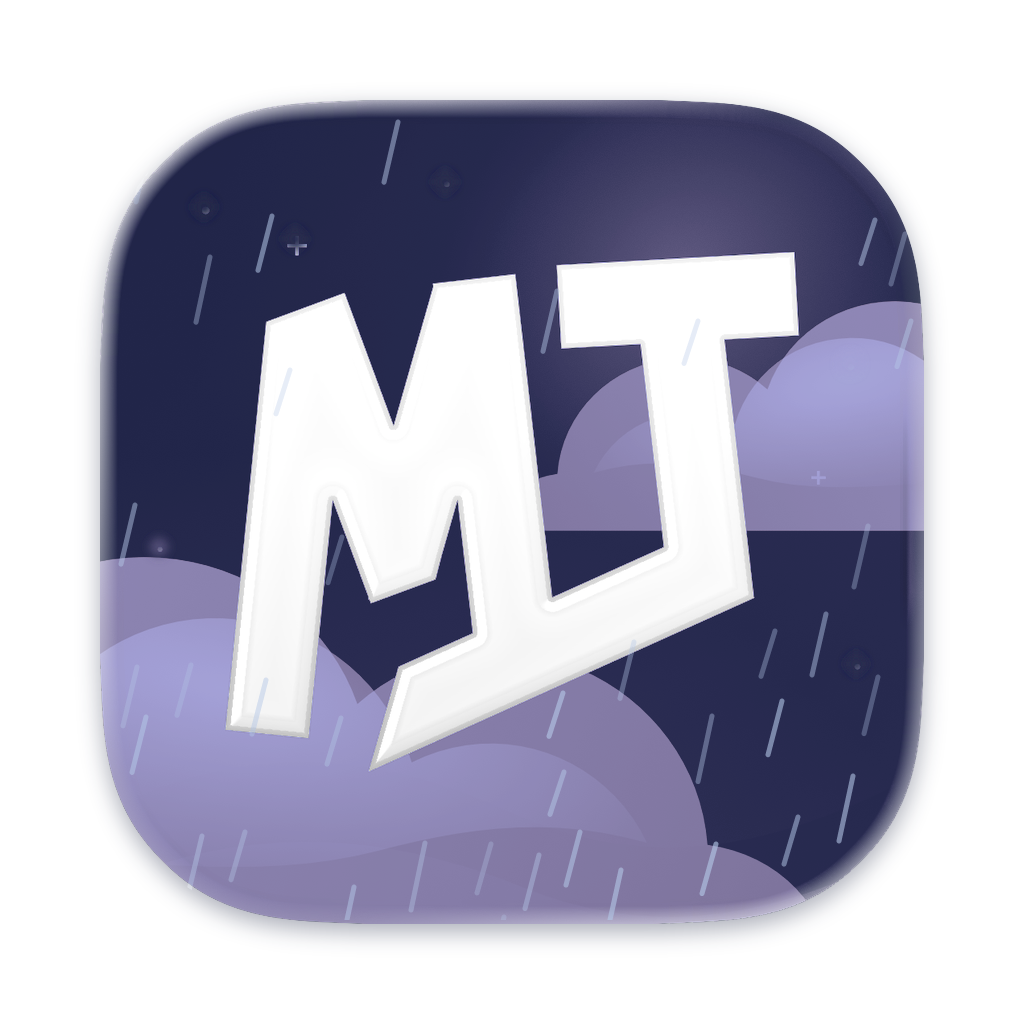
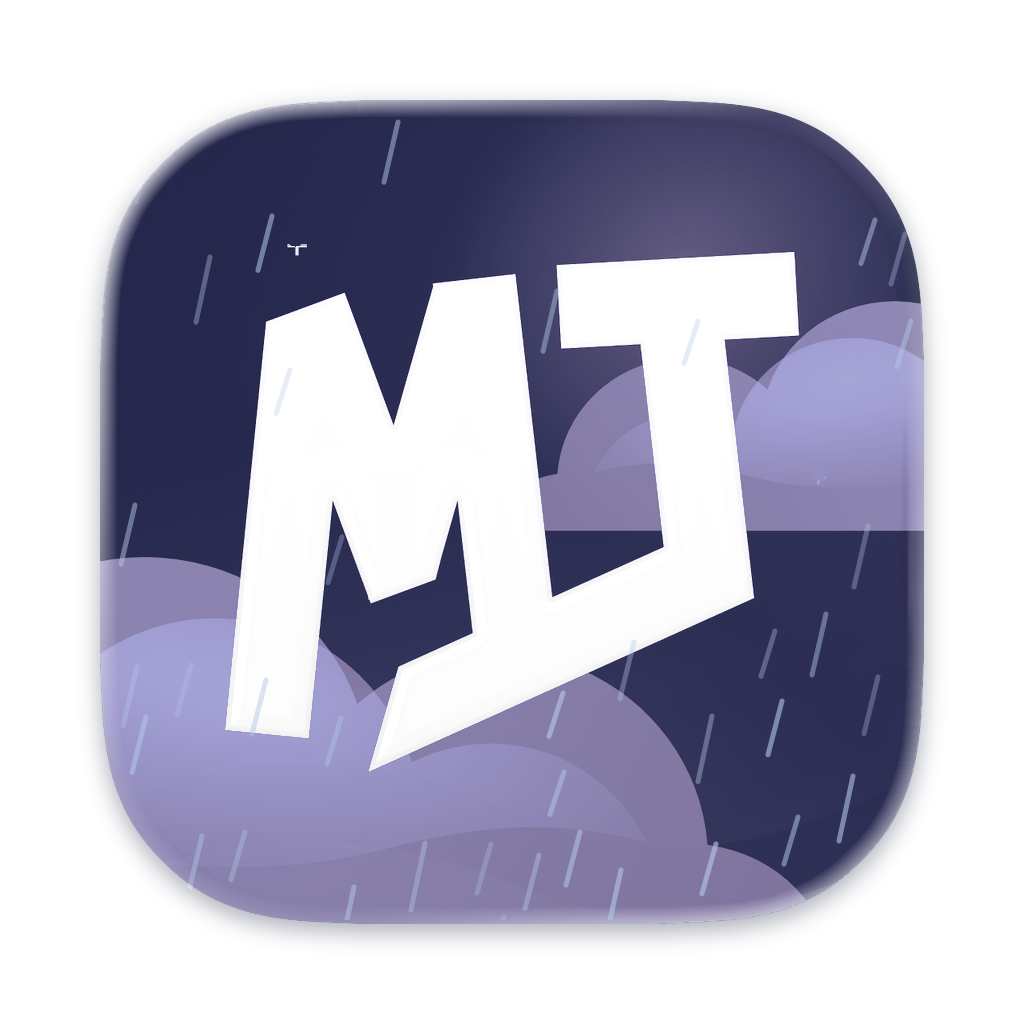
fix(web): give day's clouds their layers back, and hide its stars properly
Midday's palette had its top three tones within 0.01 of one another, so
every cloud layer the tile draws landed on the same colour and the sky
read as one flat wash. Day gains a mid-tone cloud, and stops that still
crowd are pulled apart, which puts 37 between the layers where the tile
has 49 and the flat version had 1.

Stars are painted out in the repaint itself rather than patched over
afterwards, and each one takes the tone of the sky immediately around it
rather than a figure recorded per star — one sat on dark sky next to a
cloud and was being filled with the cloud. The set also gained the two
stars the detector had missed.

Written by Claude Opus 5 (1M context) in MT Code.

diff --git a/apps/web/src/artwork/skyArtwork.ts b/apps/web/src/artwork/skyArtwork.ts
@@ -73,8 +73,8 @@ const scenes: Record<SkyPhase, Record<SkyWeather, Scene>> = {
     storm: ["#080d26", "#1b1c44", "#4a3f68", "#5b5390", "#4c74a6", "#4b4b96", "#69479a"],
   },
   day: {
-    clear: ["#0d52ae", "#3379cf", "#bfe3fa", "#ffe9b0", "#ffffff", "#cfe8ff", "#e4d8ff"],
-    cloudy: ["#2a72c0", "#5e9ad6", "#c9e2f4", "#f4fbff", "#ffffff", "#d8ecff", "#e8dcff"],
+    clear: ["#0d52ae", "#3379cf", "#bfe3fa", "#ffe9b0", "#ffffff", "#8bbfee", "#e4d8ff"],
+    cloudy: ["#2a72c0", "#5e9ad6", "#c9e2f4", "#f4fbff", "#ffffff", "#9ccbf2", "#e8dcff"],
     rain: ["#26415e", "#46637f", "#8ea4b8", "#a9bdd0", "#c6dbee", "#b8c4de", "#c1b4de"],
     snow: ["#4a6684", "#7691ad", "#cfe0ec", "#eaf4ff", "#ffffff", "#e2ecff", "#efe4ff"],
     fog: ["#465a6b", "#78909f", "#cfdadf", "#e6eef2", "#e2ecf4", "#d8dcec", "#ded0ee"],
@@ -325,6 +325,9 @@ const cloudLift: Record<SkyWeather, number> = {
  */
 const RAMP_POSITIONS = [0, 0.1, 0.26, 0.5, 0.74, 1] as const;
 
+/** The least each stop may sit below the next, from darkest to brightest. */
+const CROWDING = [0.02, 0.02, 0.18, 0.1] as const;
+
 /** The sky's brightest tone; the mark's outline is lifted above it. */
 const SKY_CEILING = 0.84;
 
@@ -365,16 +368,27 @@ export function skyIconRamp(phase: SkyPhase, weather: SkyWeather): readonly stri
   // order those stops invert the tile's own shading: a shadow lands lighter
   // than what it falls on, which is what makes the mark look cut out.
   const stops = [bottom, mid, top, mix(cloudB, toward, amount), mix(cloudA, toward, amount)];
-  // Nothing in the sky may outshine the mark's outline, or the outline stops
-  // reading as an edge and the mark comes out in dashes. Clamping each stop to
-  // that limit flattened the clouds — a bright palette's top three stops all
-  // landed on it — so the whole range is compressed into place instead, which
-  // keeps the spacing between them and so keeps the cloud layers apart.
   // Ordered by their own brightness, never by their role in the sky. A dusk or
   // midday palette can have a lit horizon brighter than its clouds, and out of
   // order those stops invert the tile's shading: a shadow lands lighter than
   // what it falls on, which is what makes the mark look cut out.
-  return [...stops.sort((a, b) => luminance(a) - luminance(b)), "#ffffff"];
+  const ordered = stops.sort((a, b) => luminance(a) - luminance(b));
+  const levels = ordered.map(luminance);
+  // Then pulled apart where they crowd. The tile's cloud layers live between
+  // the third and fourth stops, so a palette whose top tones sit within a hair
+  // of one another — midday's were 0.01 apart — paints every layer the same
+  // colour. The lower stop gives way, since the brightest has to stay near
+  // white for cloud to read as cloud.
+  for (let index = levels.length - 2; index >= 0; index--)
+    levels[index] = Math.min(levels[index]!, levels[index + 1]! - CROWDING[index]!);
+  return [
+    ...ordered.map((color, index) => {
+      const shade = luminance(color);
+      const target = Math.max(0.02, levels[index]!);
+      return shade <= 0 ? color : mix("#000000", color, Math.min(1, target / shade));
+    }),
+    "#ffffff",
+  ];
 }
 
 /** The ramp colour for a 0..1 tone, honouring where each stop sits. */
@@ -407,17 +421,18 @@ const ICON_SHAPE = { x: 104, y: 104, size: 816, radius: 190 };
 const iconStrike = trace(filament(11, 620, 150, 760));
 
 /**
- * The tile's stars and sparkles, as [x, y, radius, the tone of what they sit
- * on]. Daylight and overcast skies have none, so they are painted out with
- * whatever that spot repaints to; a clear or lightly clouded sky keeps them.
+ * Where the tile's stars and sparkles sit. Daylight and overcast skies have
+ * none, so those spots take the tone of the sky around them before the repaint
+ * and vanish into it; a clear or lightly clouded sky keeps them.
  */
-export const TILE_STARS: ReadonlyArray<readonly [number, number, number, number]> = [
-  [159, 547, 2, 0.194],
-  [204, 207, 4, 0.079],
-  [295, 239, 4, 0.102],
-  [445, 182, 4, 0.1],
-  [850, 364, 3, 0.534],
-  [856, 664, 3, 0.105],
+export const TILE_STARS: ReadonlyArray<readonly [number, number]> = [
+  [159, 547],
+  [203, 207],
+  [295, 237],
+  [446, 181],
+  [817, 471],
+  [849, 364],
+  [856, 664],
 ];
 
 export const skyHidesStars = (phase: SkyPhase, weather: SkyWeather) =>
@@ -428,10 +443,7 @@ export function skyIconOverlaySvg(phase: SkyPhase, weather: SkyWeather): string 
   const tint = scenes[phase][weather][4];
   // night/cloudy ships untouched, so borrow the clear night's ramp to colour
   // anything the overlay needs to paint over.
-  const tones = skyIconLookup(phase, weather) ?? skyIconLookup("night", "clear")!;
-  let body = skyHidesStars(phase, weather)
-    ? `<g filter="url(#iconBlur2)">${TILE_STARS.map(([x, y, radius, level]) => `<circle cx="${x}" cy="${y}" r="${radius + 7}" fill="${tones[Math.round(level * 255)]}"/>`).join("")}</g>`
-    : "";
+  let body = "";
   if (weather === "rain" || weather === "snow" || weather === "storm") {
     const count = weather === "storm" ? 46 : weather === "rain" ? 40 : 34;
     body += Array.from({ length: count }, (_, index) => {

diff --git a/apps/web/src/artwork/appIconArtwork.ts b/apps/web/src/artwork/appIconArtwork.ts
@@ -67,15 +67,31 @@ export async function renderArtworkAppIcon(background: string): Promise<string> 
   return canvas.toDataURL("image/png");
 }
 
-/** Tones to substitute where the tile's stars sit, keyed by pixel index. */
-function starLevels(): Map<number, number> {
+/**
+ * Tones to substitute where the tile's stars sit, keyed by pixel index. The
+ * replacement is read from a ring around each star rather than recorded per
+ * star, so a star sitting on a cloud is filled with that cloud.
+ */
+function starLevels(pixels: Uint8ClampedArray): Map<number, number> {
   const levels = new Map<number, number>();
-  for (const [starX, starY, radius, level] of TILE_STARS) {
-    const reach = radius + 7;
-    const tone = Math.round(level * 255);
-    for (let y = starY - reach; y <= starY + reach; y++)
-      for (let x = starX - reach; x <= starX + reach; x++)
-        if ((x - starX) ** 2 + (y - starY) ** 2 <= reach ** 2) levels.set(y * 1024 + x, tone);
+  const STAR_REACH = 9;
+  for (const [starX, starY] of TILE_STARS) {
+    const ring: number[] = [];
+    for (let angle = 0; angle < 16; angle++) {
+      const radians = (angle / 16) * Math.PI * 2;
+      const pixel =
+        (Math.round(starY + Math.sin(radians) * (STAR_REACH + 1)) * 1024 +
+          Math.round(starX + Math.cos(radians) * (STAR_REACH + 1))) <<
+        2;
+      ring.push(
+        pixels[pixel]! * 0.2126 + pixels[pixel + 1]! * 0.7152 + pixels[pixel + 2]! * 0.0722,
+      );
+    }
+    ring.sort((a, b) => a - b);
+    const tone = Math.round(ring[ring.length >> 1]!);
+    for (let y = starY - STAR_REACH; y <= starY + STAR_REACH; y++)
+      for (let x = starX - STAR_REACH; x <= starX + STAR_REACH; x++)
+        if ((x - starX) ** 2 + (y - starY) ** 2 <= STAR_REACH ** 2) levels.set(y * 1024 + x, tone);
   }
   return levels;
 }
@@ -222,7 +238,7 @@ export async function renderSkyAppIcon(phase: SkyPhase, weather: SkyWeather): Pr
   const table = rampLookup(colors);
   // Daylight and overcast skies show no stars: the tile's specks take the tone
   // of what they sit on, so they vanish into the repainted sky.
-  const hidden = skyHidesStars(phase, weather) ? starLevels() : null;
+  const hidden = skyHidesStars(phase, weather) ? starLevels(origin) : null;
   for (let pixel = 0; pixel < frame.data.length; pixel += 4) {
     if (frame.data[pixel + 3] === 0) continue;
     const red = frame.data[pixel]!;
